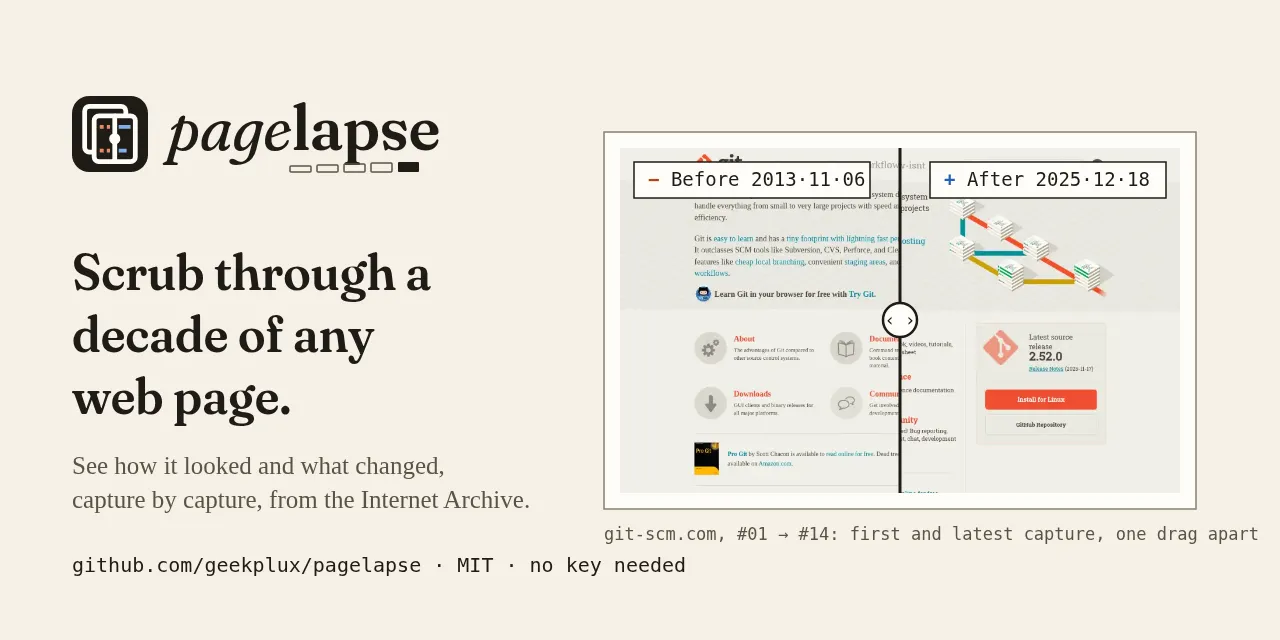
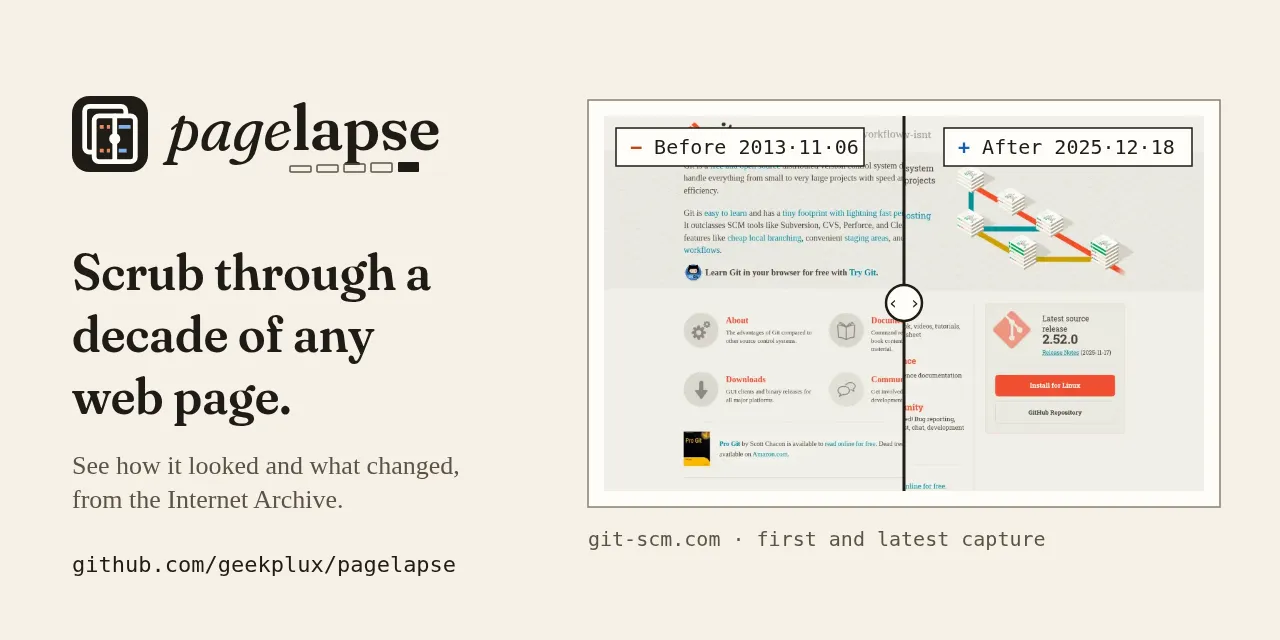
verify: phase 19 hero GIF, new README hero and screenshots

Changed region(s): [[0.4062, 0.1875, 0.9688, 0.9062], [0.0625, 0.7188, 0.4062, 0.8125], [0.0625, 0.875, 0.375, 0.9062]]

diff --git a/README.md b/README.md
@@ -8,7 +8,7 @@
 
 ![Pagelapse playing the git-scm.com home page as a time-lapse: first a slider splits the 2013 capture from the 2025 one, then the page steps through its 14 captures from 2013 to 2025, one per frame](docs/hero.gif)
 
-![Pagelapse showing the git-scm.com home page before and after its 2025 redesign: a slider splits the two captures, the change summary sits to the right, and a filmstrip of 14 captures from 2013 to 2025 runs below](docs/hero.webp)
+![Pagelapse showing the git-scm.com home page twelve years apart: a slider splits the first capture (November 2013) from the latest (December 2025), the summary of what changed sits to the right, and a filmstrip of all 14 captures runs below](docs/hero.webp)
 
 Paste a URL. Pagelapse finds the page's captures in the Wayback Machine, keeps the ones where something meaningful changed, and lays them out as a time-lapse. You can drag between any two looks, play the decade back, read exactly which words changed, and get one line per change that says what happened.
 
